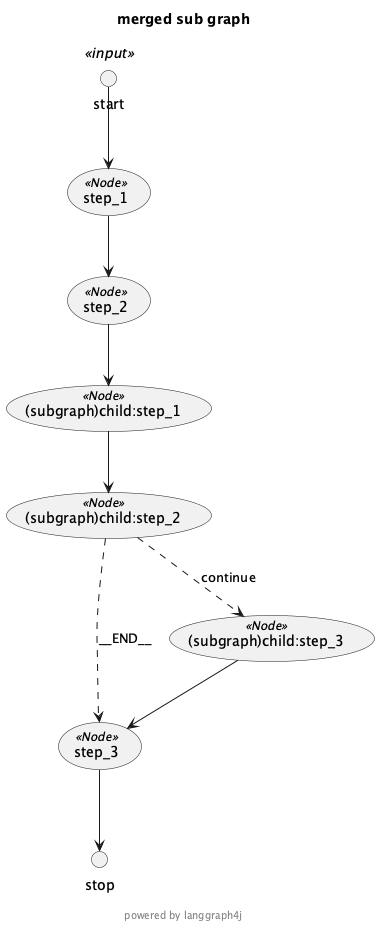
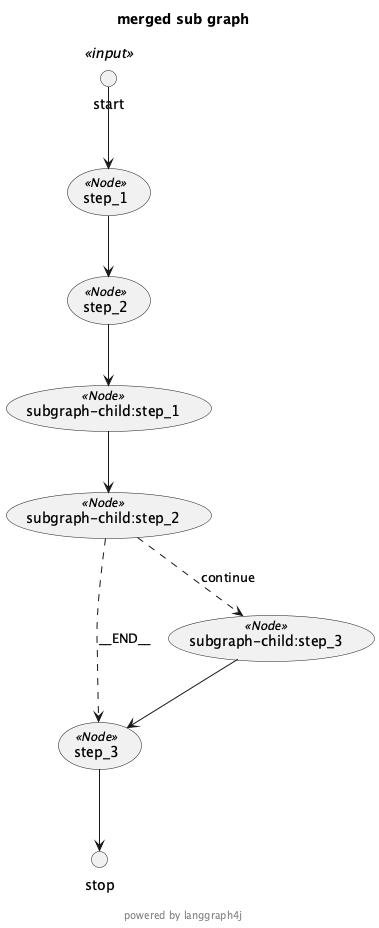
docs(how-tos): update notebook documentation

diff --git a/how-tos/src/site/markdown/subgraph-as-stategraph.md b/how-tos/src/site/markdown/subgraph-as-stategraph.md
@@ -1,8 +1,6 @@
 # Subgraph as state graph sample
 
-
 **utility to render graph respresentation in PlantUML**
-
 
 ```java
 import net.sourceforge.plantuml.SourceStringReader;
@@ -108,9 +106,9 @@ for( var step : compiledWorkflow.stream( Map.of() )) {
     NodeOutput{node=__START__, state={messages=[]}}
     NodeOutput{node=step_1, state={messages=[step1]}}
     NodeOutput{node=step_2, state={messages=[step1, step2]}}
-    NodeOutput{node=(subgraph)child:step_1, state={messages=[step1, step2, child:step1]}}
-    NodeOutput{node=(subgraph)child:step_2, state={messages=[step1, step2, child:step1, child:step2]}}
-    NodeOutput{node=(subgraph)child:step_3, state={messages=[step1, step2, child:step1, child:step2, child:step3]}}
+    NodeOutput{node=subgraph-child:step_1, state={messages=[step1, step2, child:step1]}}
+    NodeOutput{node=subgraph-child:step_2, state={messages=[step1, step2, child:step1, child:step2]}}
+    NodeOutput{node=subgraph-child:step_3, state={messages=[step1, step2, child:step1, child:step2, child:step3]}}
     NodeOutput{node=step_3, state={messages=[step1, step2, child:step1, child:step2, child:step3, step3]}}
     NodeOutput{node=__END__, state={messages=[step1, step2, child:step1, child:step2, child:step3, step3]}}
 
